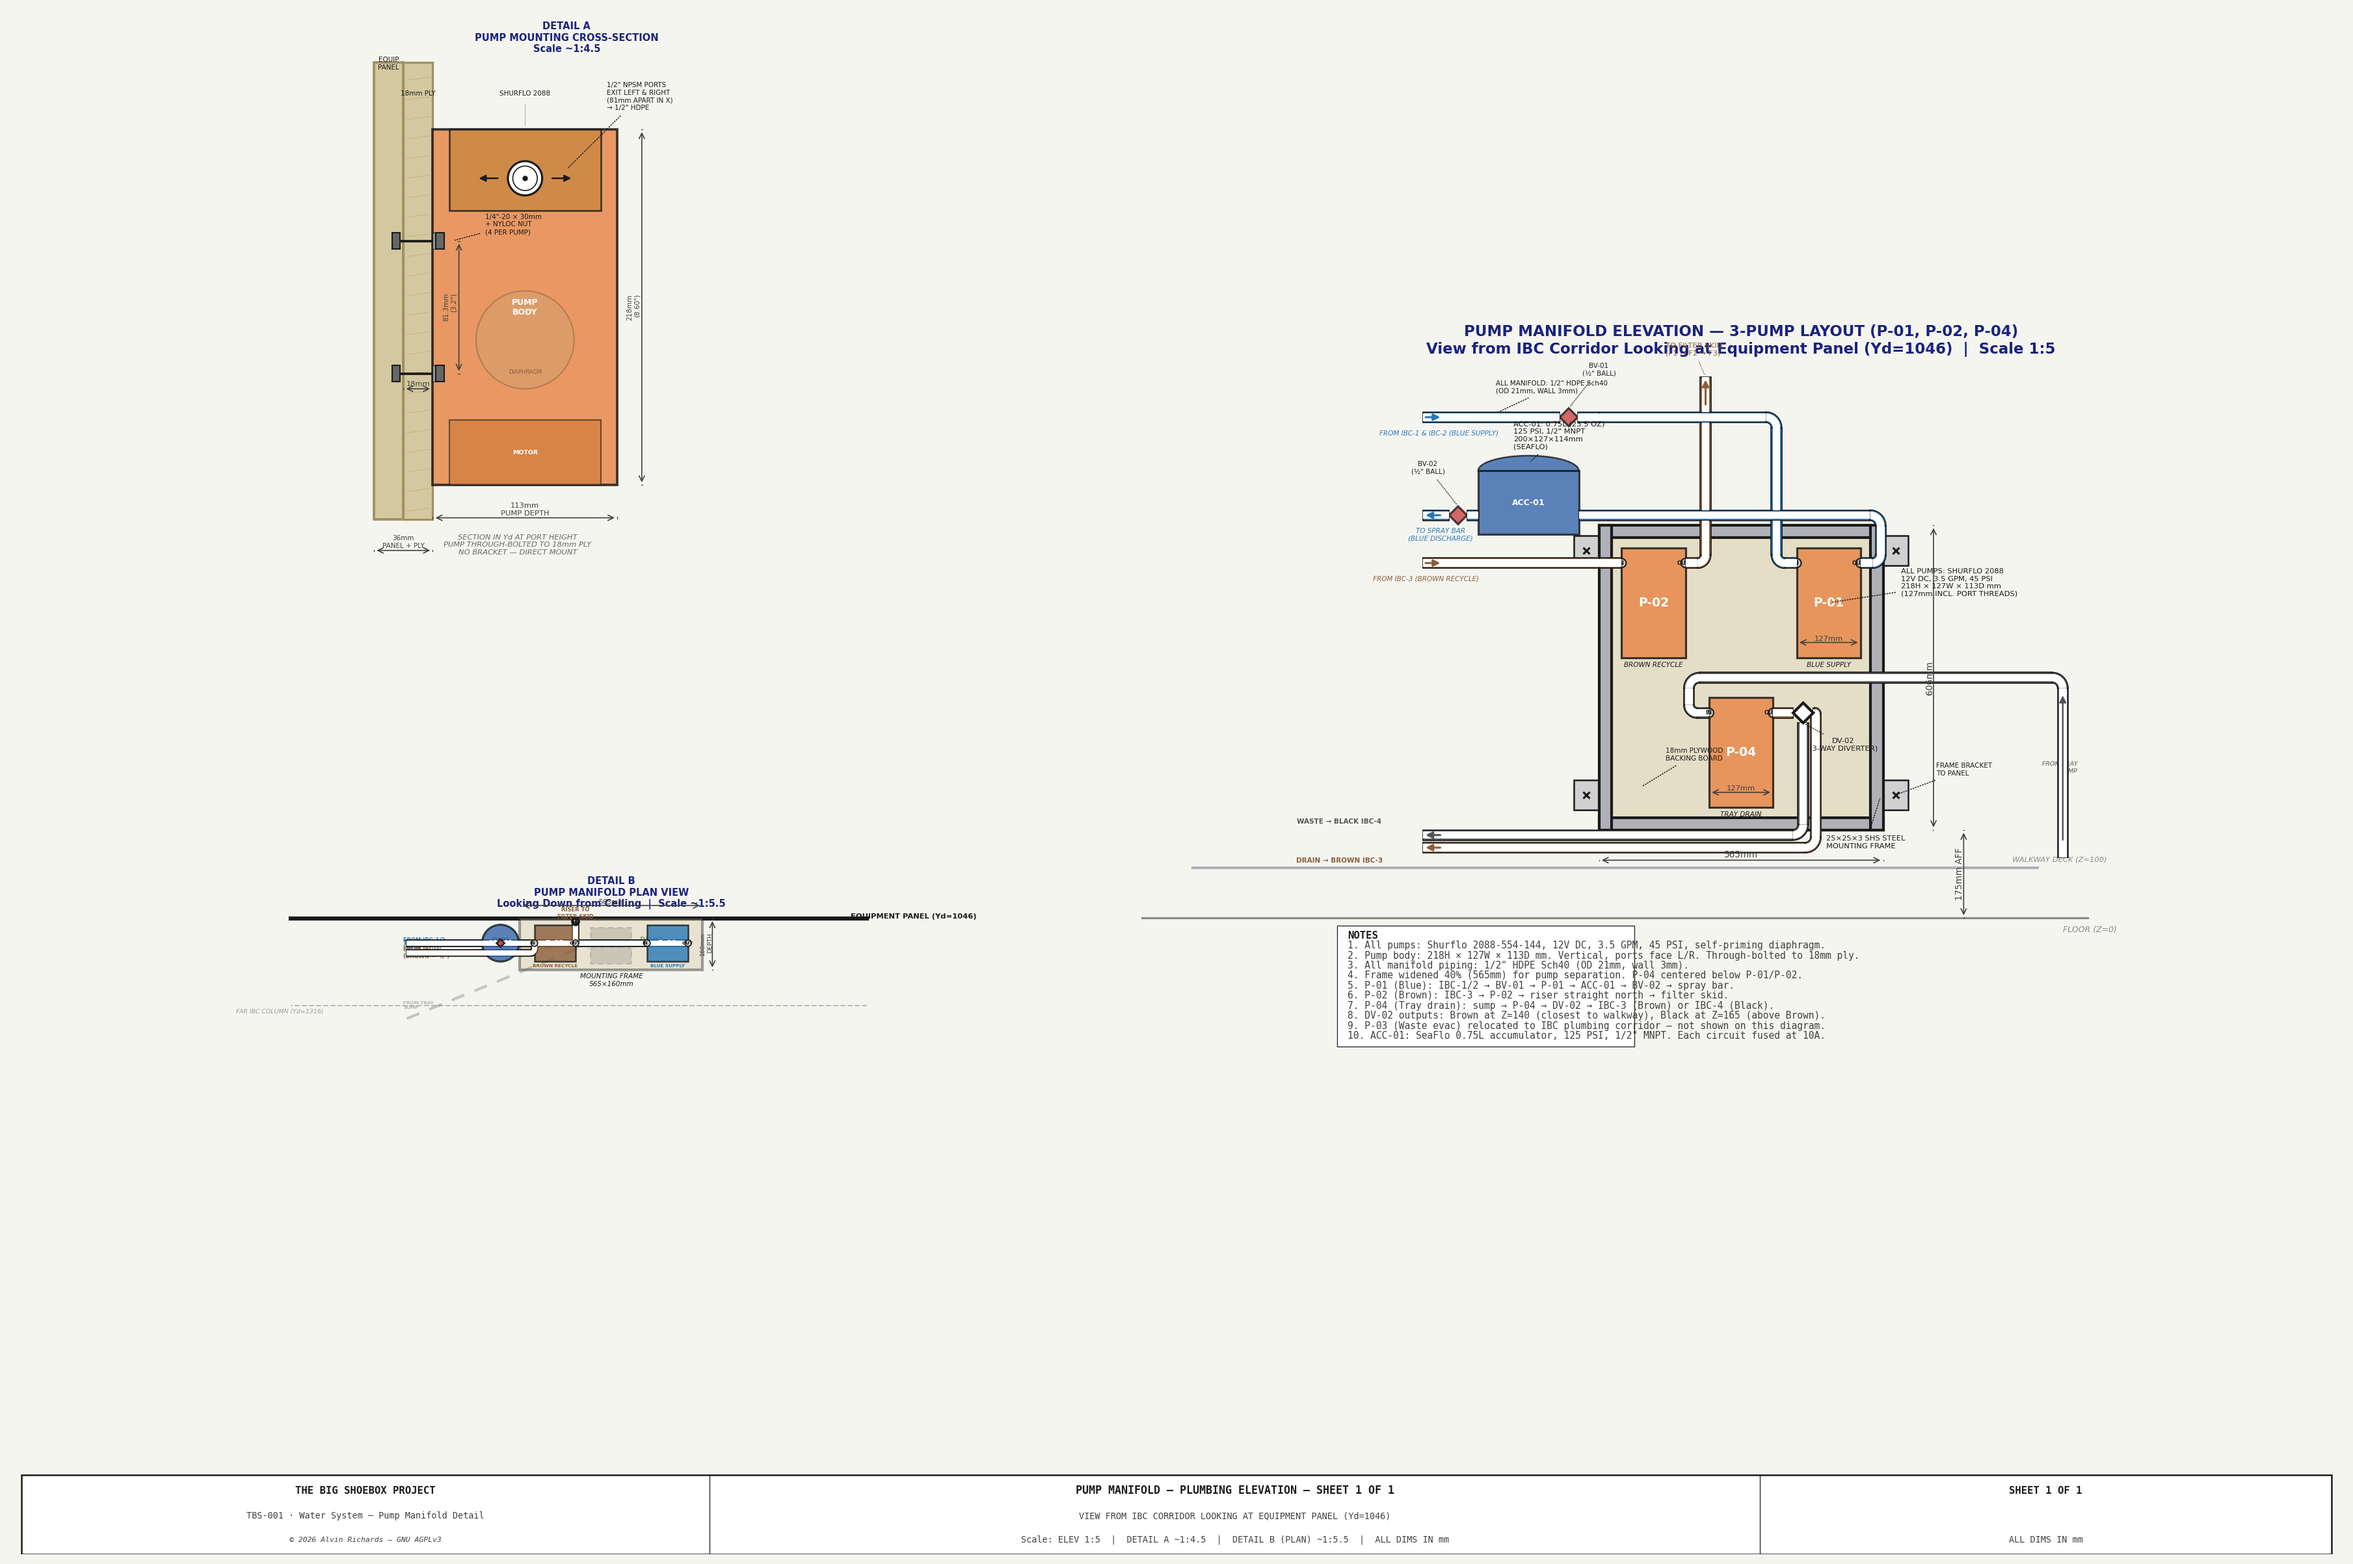
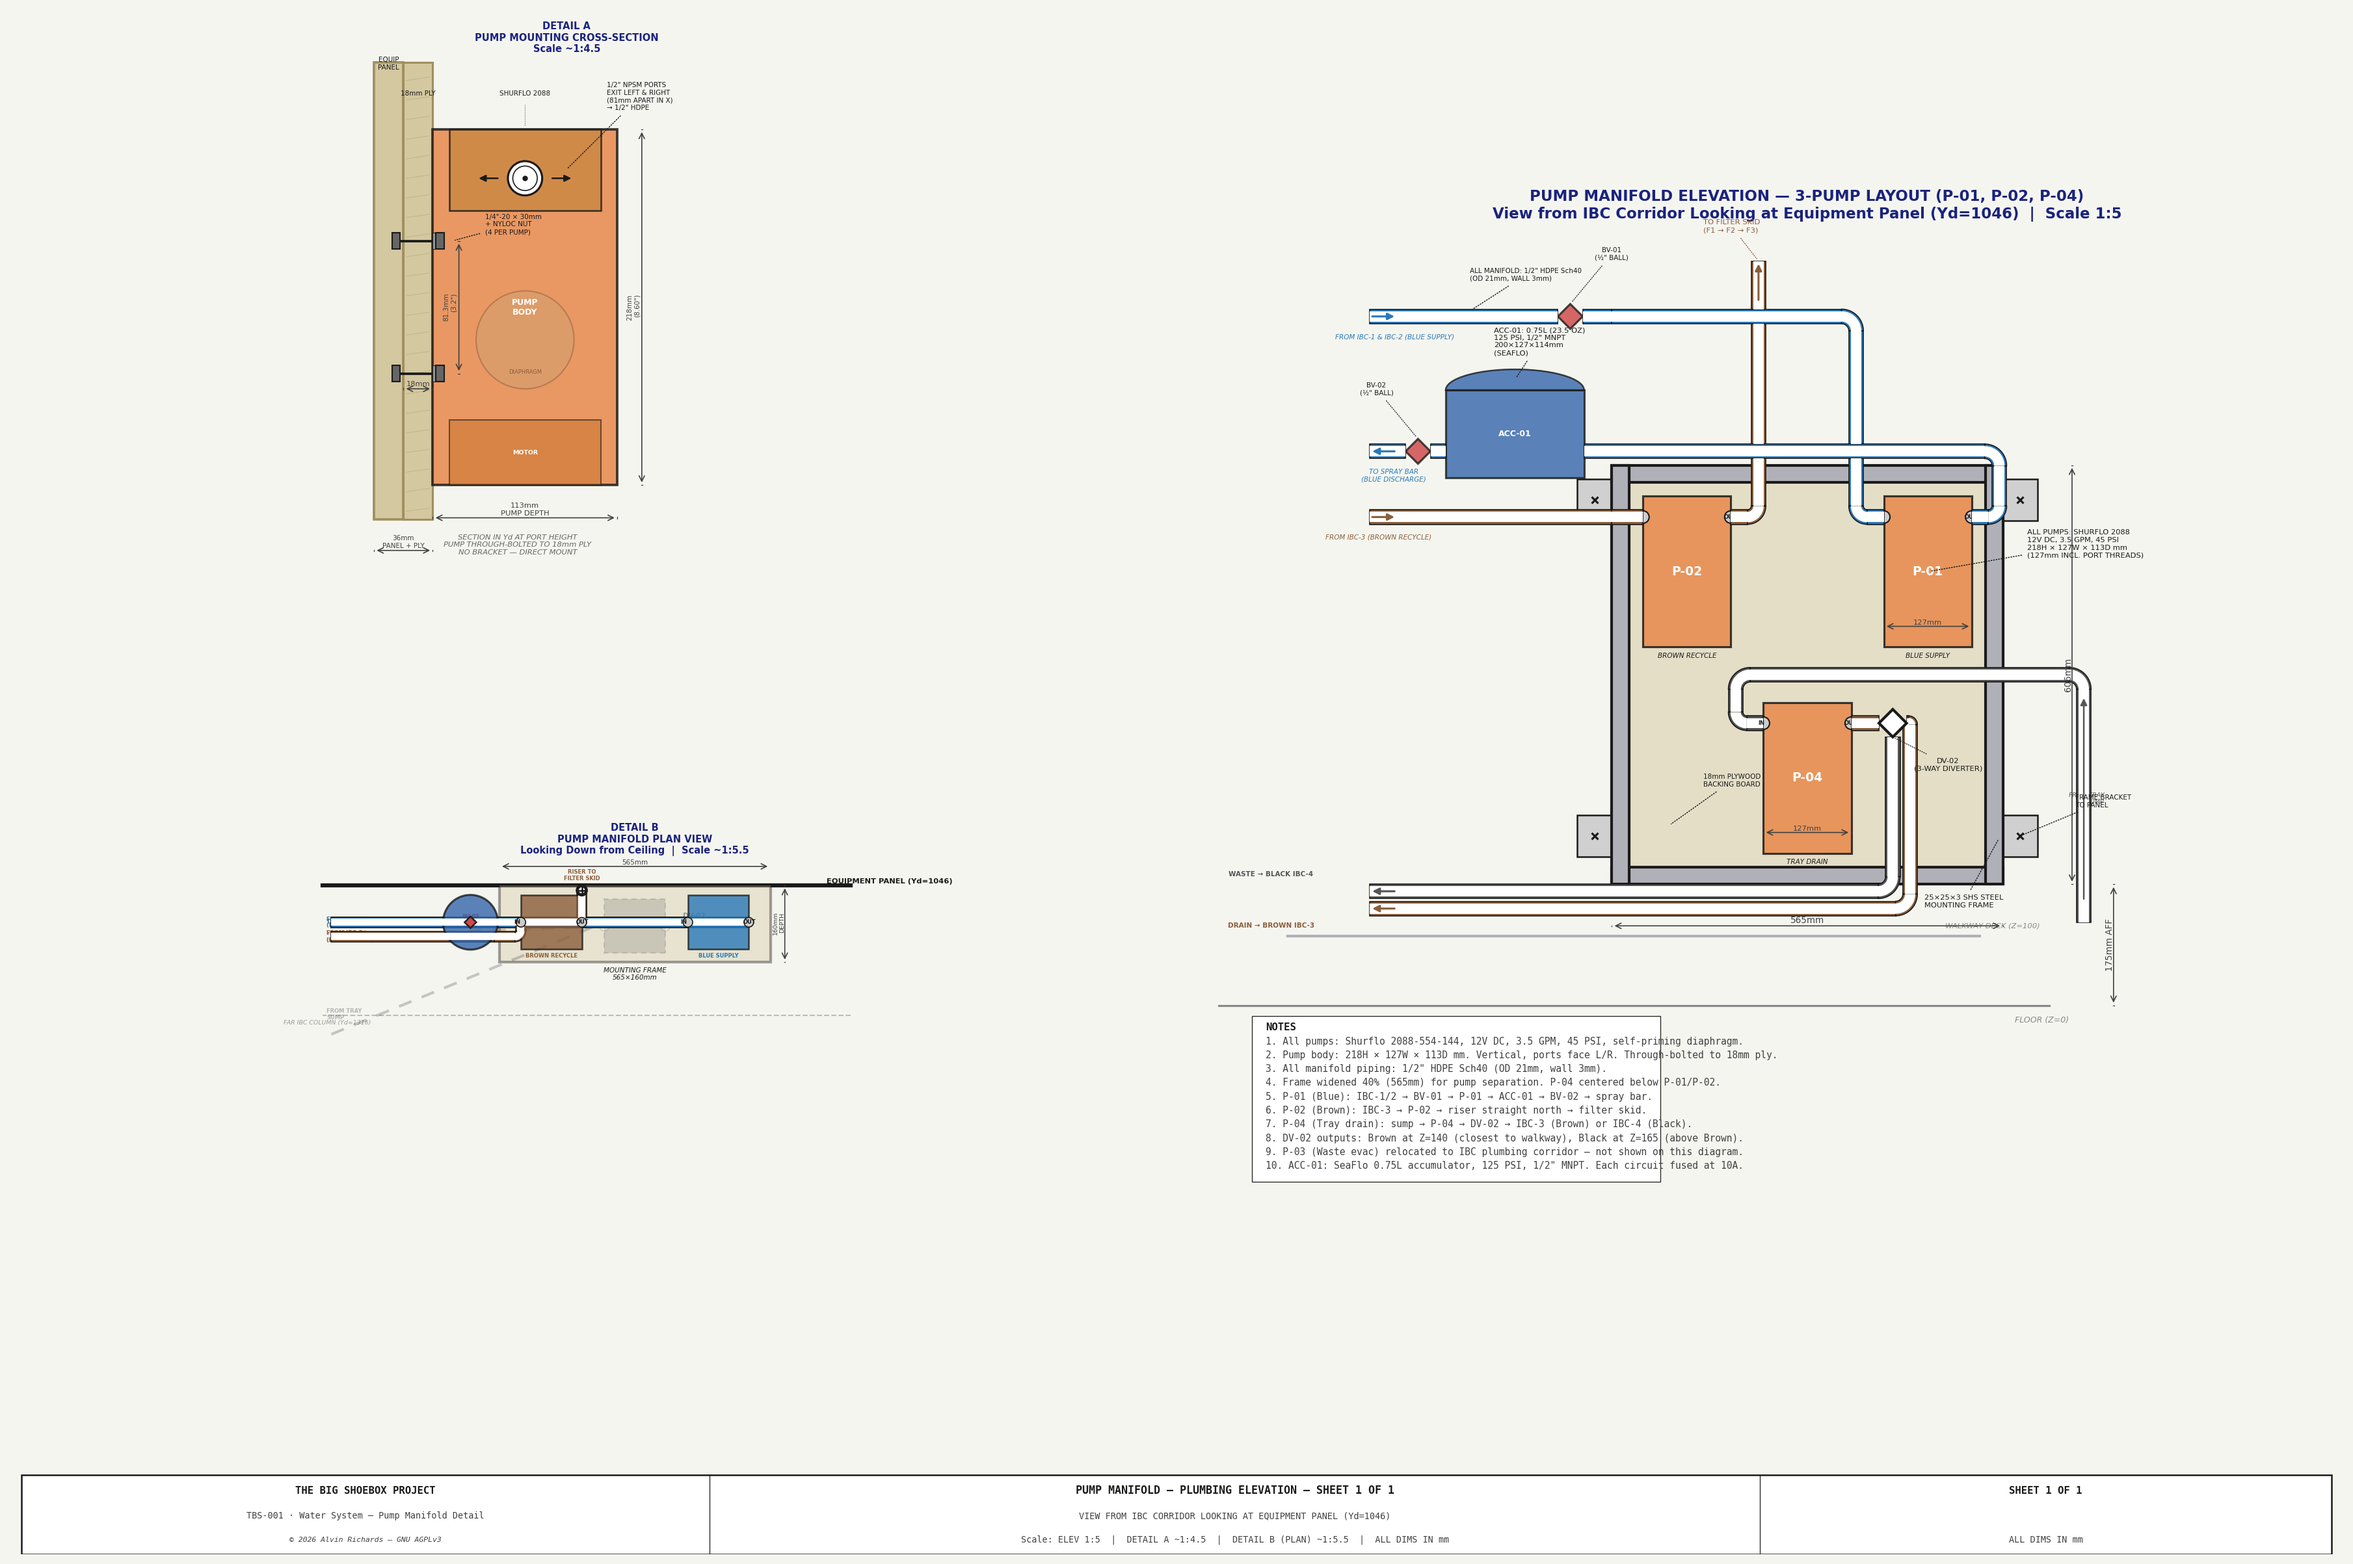
Label placement cleanup across changed generators
- Bump all fontsize=3.5 to 4.0 (minimum annotation font size rule):
  panel layout (1), pinhole wall elevation (4), pump manifold (4)
- Add missing flow arrows on DV-02 output pipes (panel layout)
- Consistent label text: '→ IBC-3/4' replaced with 'TO IBC-3/4'

diff --git a/generate_pinhole_wall_elevation.py b/generate_pinhole_wall_elevation.py
@@ -398,7 +398,7 @@ ax.plot(sx(TUBE_X), sz(TUBE_Z_BOT), 's',
 # Labels — positioned to be readable at combined elevation scale
 ax.text(sx(PROC_TRAY_X_L + 350), sz(TRAY_RIM_TOP / 2),
         "PROCESSING TRAY (304 SS, 50mm RIM)", ha="left", va="center",
-        fontsize=3.5, color=C_TRAY_EC, zorder=10, **FONT)
+        fontsize=4.0, color=C_TRAY_EC, zorder=10, **FONT)
 
 ax.text(sx(SUMP_X_L - 40), sz(TRAY_FLOOR_Z / 2 + 20),
         "SUMP WELL", ha="right", va="center",
@@ -436,7 +436,7 @@ ax.add_patch(plt.Circle((sx(EVAP_DUCT_X), sz(EVAP_DUCT_Z)), duct_r * S,
              fill=True, facecolor=C_DUCT, edgecolor=C_OUT,
              linewidth=1.2, zorder=8, alpha=0.6))
 ax.text(sx(EVAP_DUCT_X), sz(EVAP_DUCT_Z), f"DUCT\nØ{EVAP_DUCT_D}",
-        ha="center", va="center", fontsize=3.5, color=C_OUT, zorder=9, **FONT)
+        ha="center", va="center", fontsize=4.0, color=C_OUT, zorder=9, **FONT)
 leader(ax, sx(EVAP_DUCT_X), sz(EVAP_DUCT_Z - duct_r),
        sx(EVAP_DUCT_X + 300), sz(EVAP_DUCT_Z - 200),
        "EVAP COOLER DUCT\n(EXTERNAL UNIT)", fs=4.5, color=C_DIM,
@@ -771,7 +771,7 @@ ax2.plot([sx(PROC_TRAY_X_L), sx(PROC_TRAY_X_R)],
         color=C_TRAY_EC, lw=0.8, ls=":", zorder=4)
 ax2.text(sx(PROC_TRAY_X_R - 150), plan_sy(PROC_TRAY_YD_NEAR) + 0.04,
         "PROC TRAY NEAR RIM (Yd = 80)", ha="right", va="bottom",
-        fontsize=3.5, color=C_TRAY_EC, zorder=10, **FONT)
+        fontsize=4.0, color=C_TRAY_EC, zorder=10, **FONT)
 
 # ── Widened walkway section (EP/BAT zone, 500mm) ───────────────────────────
 ww_x_draw = sx(WALKWAY_NEAR_WIDE_X_R)
@@ -803,7 +803,7 @@ for _yd_val in range(0, 601, 100):
     ax2.plot([_yd_scale_x - 0.04, _yd_scale_x + 0.04], [_y, _y],
             color=C_DIM, lw=0.4, zorder=10)
     ax2.text(_yd_scale_x + 0.08, _y, f"{_yd_val}",
-            ha="left", va="center", fontsize=3.5, color=C_DIM,
+            ha="left", va="center", fontsize=4.0, color=C_DIM,
             zorder=10, **FONT)
 ax2.text(_yd_scale_x + 0.08, plan_sy(300) + 0.25,
         "Yd (mm)\n↑ INTO CONTAINER", ha="left", va="bottom",

diff --git a/generate_pump_manifold_diagram.py b/generate_pump_manifold_diagram.py
@@ -1123,7 +1123,7 @@ for pcx, pyd, plabel, pcolor, psub in pumps_solid:
              fontsize=5.5, color="white", fontweight="bold", zorder=6)
     ax3.text(sp_x(pcx), sp_y(pyd + PP_D + 8),
              psub, ha="center", va="top",
-             fontsize=3.5, color=pcolor, fontweight="bold", zorder=6)
+             fontsize=4.0, color=pcolor, fontweight="bold", zorder=6)
     # Port indicators — circles at body edges (ports within 127mm envelope)
     p_in_x, p_in_yd, p_out_x, p_out_yd = _plan_pump_ports(pcx, pyd)
     ax3.add_patch(plt.Circle((sp_x(p_in_x), sp_y(p_in_yd)),
@@ -1132,9 +1132,9 @@ for pcx, pyd, plabel, pcolor, psub in pumps_solid:
                   PP_PORT_R / SC_B, fc="#CCCCCC", ec=C_FRAME, lw=0.8, zorder=6))
     # Port labels
     ax3.text(sp_x(p_in_x + 15), sp_y(p_in_yd), "IN", ha="left", va="center",
-             fontsize=3.5, fontweight="bold", color=C_FRAME, zorder=8)
+             fontsize=4.0, fontweight="bold", color=C_FRAME, zorder=8)
     ax3.text(sp_x(p_out_x - 15), sp_y(p_out_yd), "OUT", ha="right", va="center",
-             fontsize=3.5, fontweight="bold", color=C_FRAME, zorder=8)
+             fontsize=4.0, fontweight="bold", color=C_FRAME, zorder=8)
 
 # ── ACC-01 from above ───────────────────────────────────────────────────────
 ACC_PLAN_R = 57   # tank half-depth in plan (~114mm H from spec)
@@ -1351,7 +1351,7 @@ def ghost_pipe(x_pts, yd_pts, color):
 
 def ghost_label(x, yd, text, color, ha="left", va="center"):
     ax3.text(sp_x(x), sp_y(yd), text, ha=ha, va=va,
-             fontsize=3.5, color=color, fontweight="bold", alpha=0.4)
+             fontsize=4.0, color=color, fontweight="bold", alpha=0.4)
 
 # Tray drain suction: tray sump → P-04 IN (ghost) — at P-04 center X
 p04_cx = P04_X + PUMP_BODY_W / 2

diff --git a/generate_panel_layout.py b/generate_panel_layout.py
@@ -625,8 +625,11 @@ draw_pipe_path(ax,
     [DV02_YD + BV_R, EXIT_R],
     [DV02_Z, DV02_Z],
     PIPE_OD, PIPE_WALL, fc=C_BROWN, zorder=Z_BROWN)
+ax.annotate("", xy=(sx(EXIT_R), sz(DV02_Z)),
+            xytext=(sx(EXIT_R - _AW), sz(DV02_Z)),
+            arrowprops=dict(**_arrow_kw, color=C_BROWN), zorder=11)
 ax.text(sx(EXIT_R + 5), sz(DV02_Z),
-        "→ IBC-3", ha="left", va="center",
+        "TO\nIBC-3", ha="left", va="center",
         fontsize=5.5, color=C_BROWN, zorder=10, **FONT)
 
 # DV-02 Black output → IBC-4: exits BOTTOM from DV-02, then RIGHT
@@ -635,8 +638,11 @@ draw_pipe_path(ax,
     [DV02_YD, DV02_YD, EXIT_R],
     [DV02_Z - BV_R, _DV_IBC4_Z, _DV_IBC4_Z],
     PIPE_OD, PIPE_WALL, fc=C_BLACK_SYS, zorder=Z_BLACK)
+ax.annotate("", xy=(sx(EXIT_R), sz(_DV_IBC4_Z)),
+            xytext=(sx(EXIT_R - _AW), sz(_DV_IBC4_Z)),
+            arrowprops=dict(**_arrow_kw, color=C_BLACK_SYS), zorder=11)
 ax.text(sx(EXIT_R + 5), sz(_DV_IBC4_Z),
-        "→ IBC-4", ha="left", va="center",
+        "TO\nIBC-4", ha="left", va="center",
         fontsize=5.5, color=C_BLACK_SYS, zorder=10, **FONT)
 
 
@@ -904,7 +910,7 @@ ax.add_patch(mpatches.Rectangle(
 ax.text(cs_yd((IBC_NEAR_END + CORRIDOR_FAR) / 2), cs_z(120),
         f"18mm PANEL\nSPANS CORRIDOR\n(Z={PANEL_Z_AFF}–{PANEL_Z_AFF + PANEL_H})",
         ha="center", va="center",
-        fontsize=3.5, color=C_PLY_EC, fontweight="bold", zorder=10, **FONT)
+        fontsize=4.0, color=C_PLY_EC, fontweight="bold", zorder=10, **FONT)
 
 # Corridor width dimension
 draw_dim_h(ax, cs_yd(IBC_NEAR_END), cs_yd(CORRIDOR_FAR), cs_z(Z_CS_MAX + 10),
